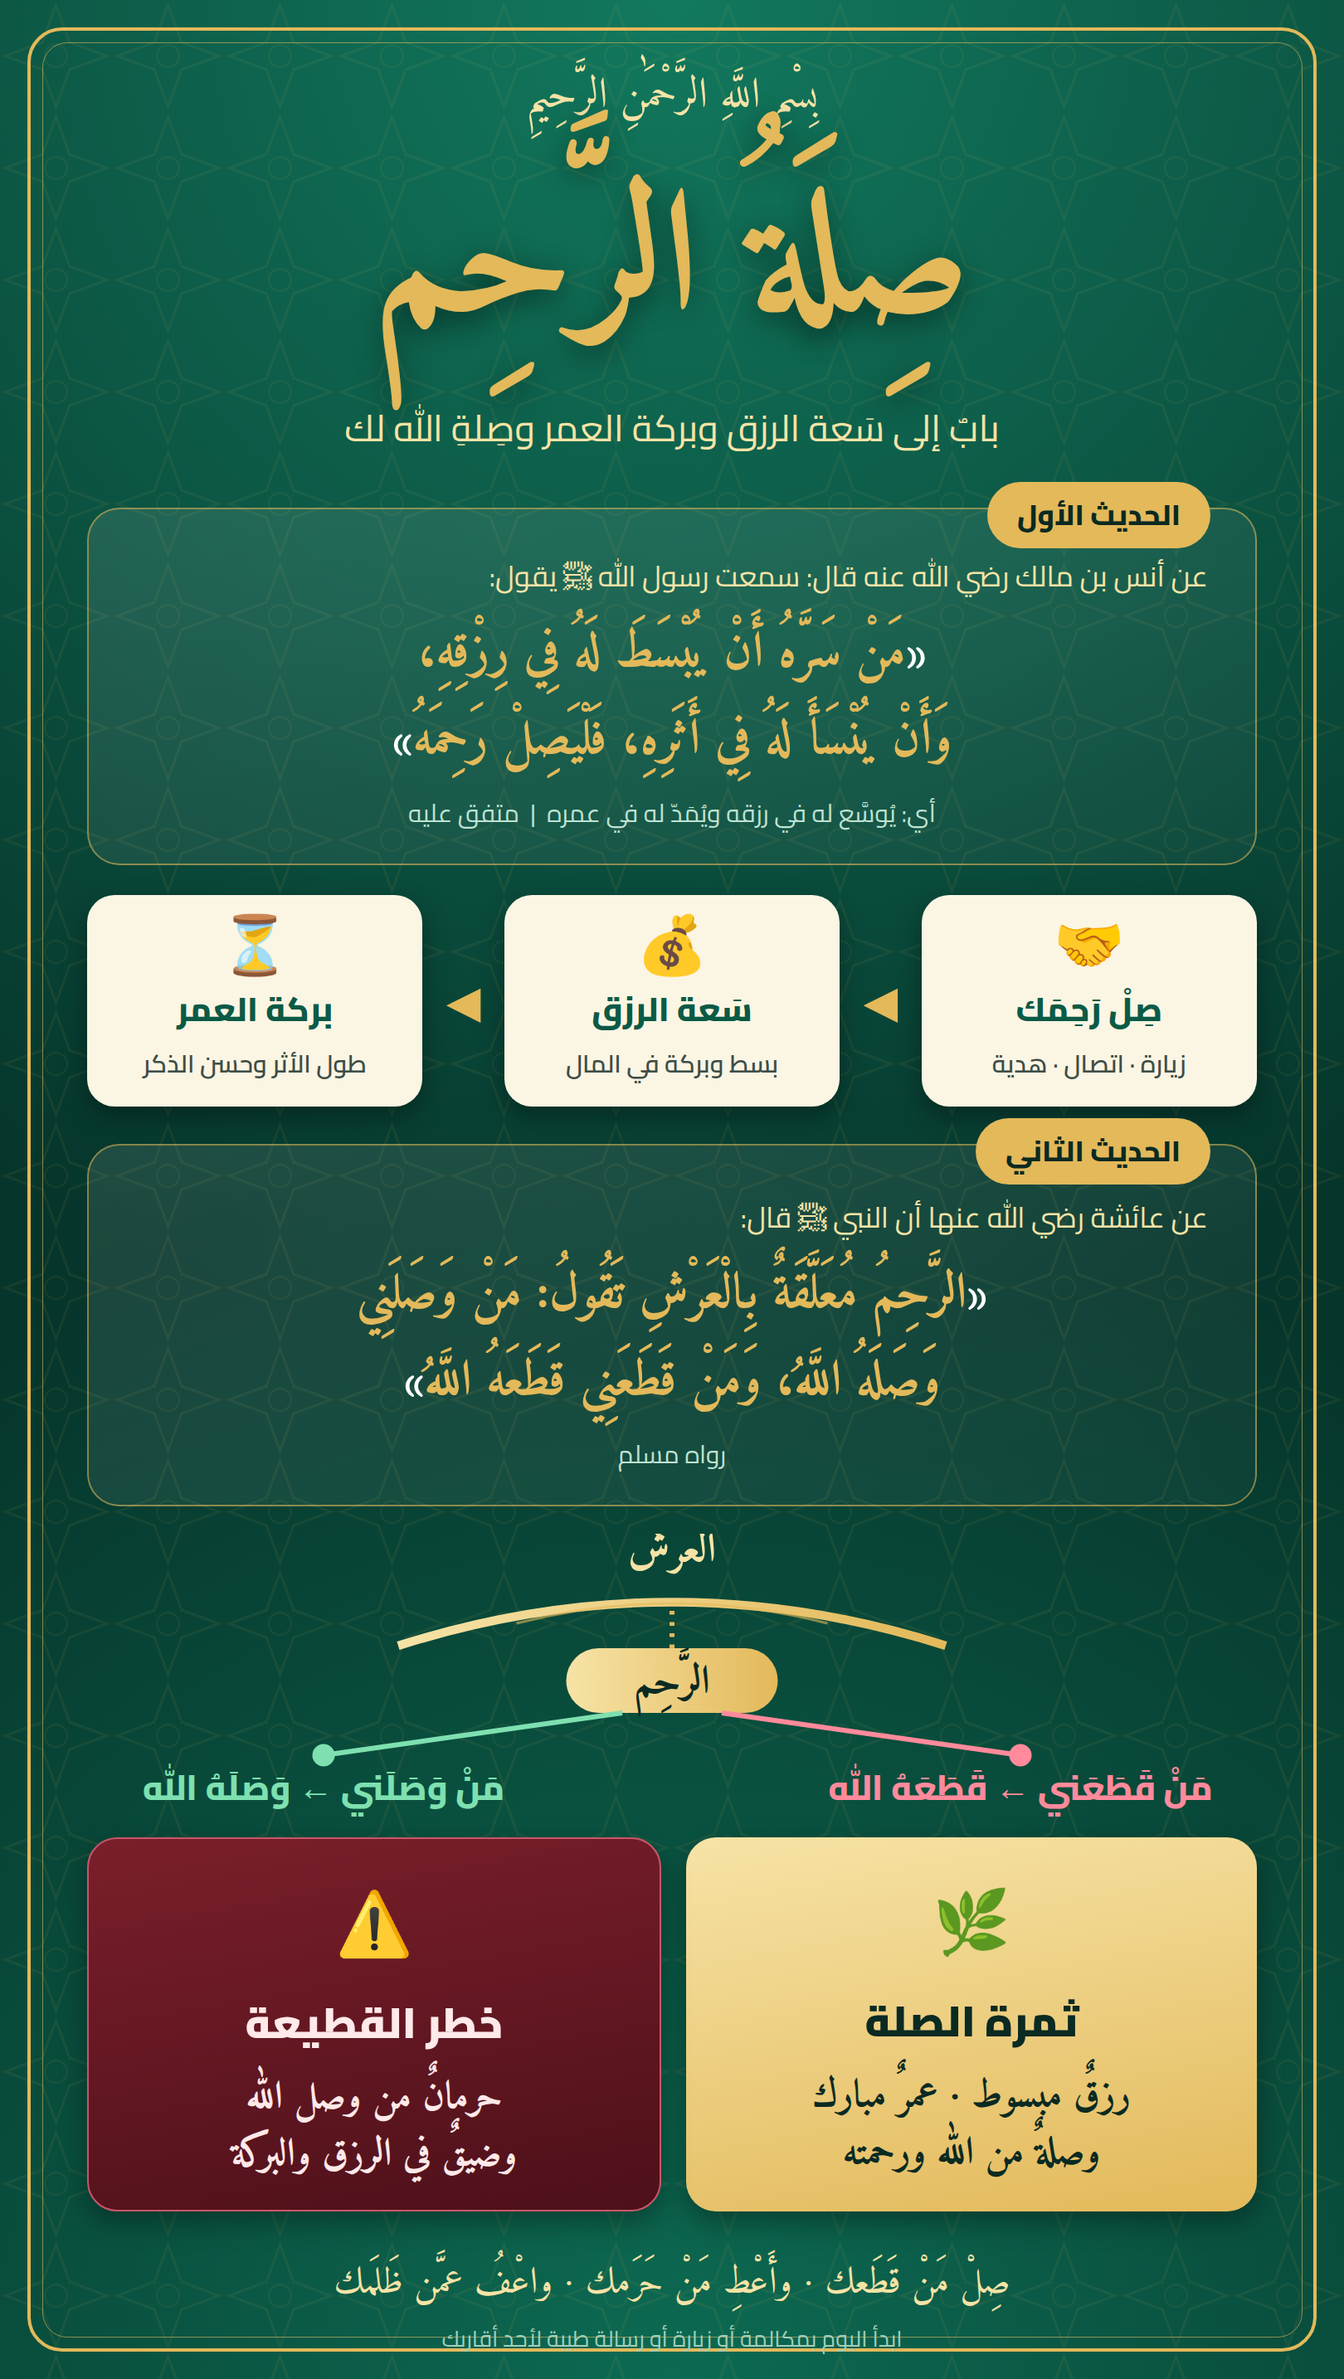
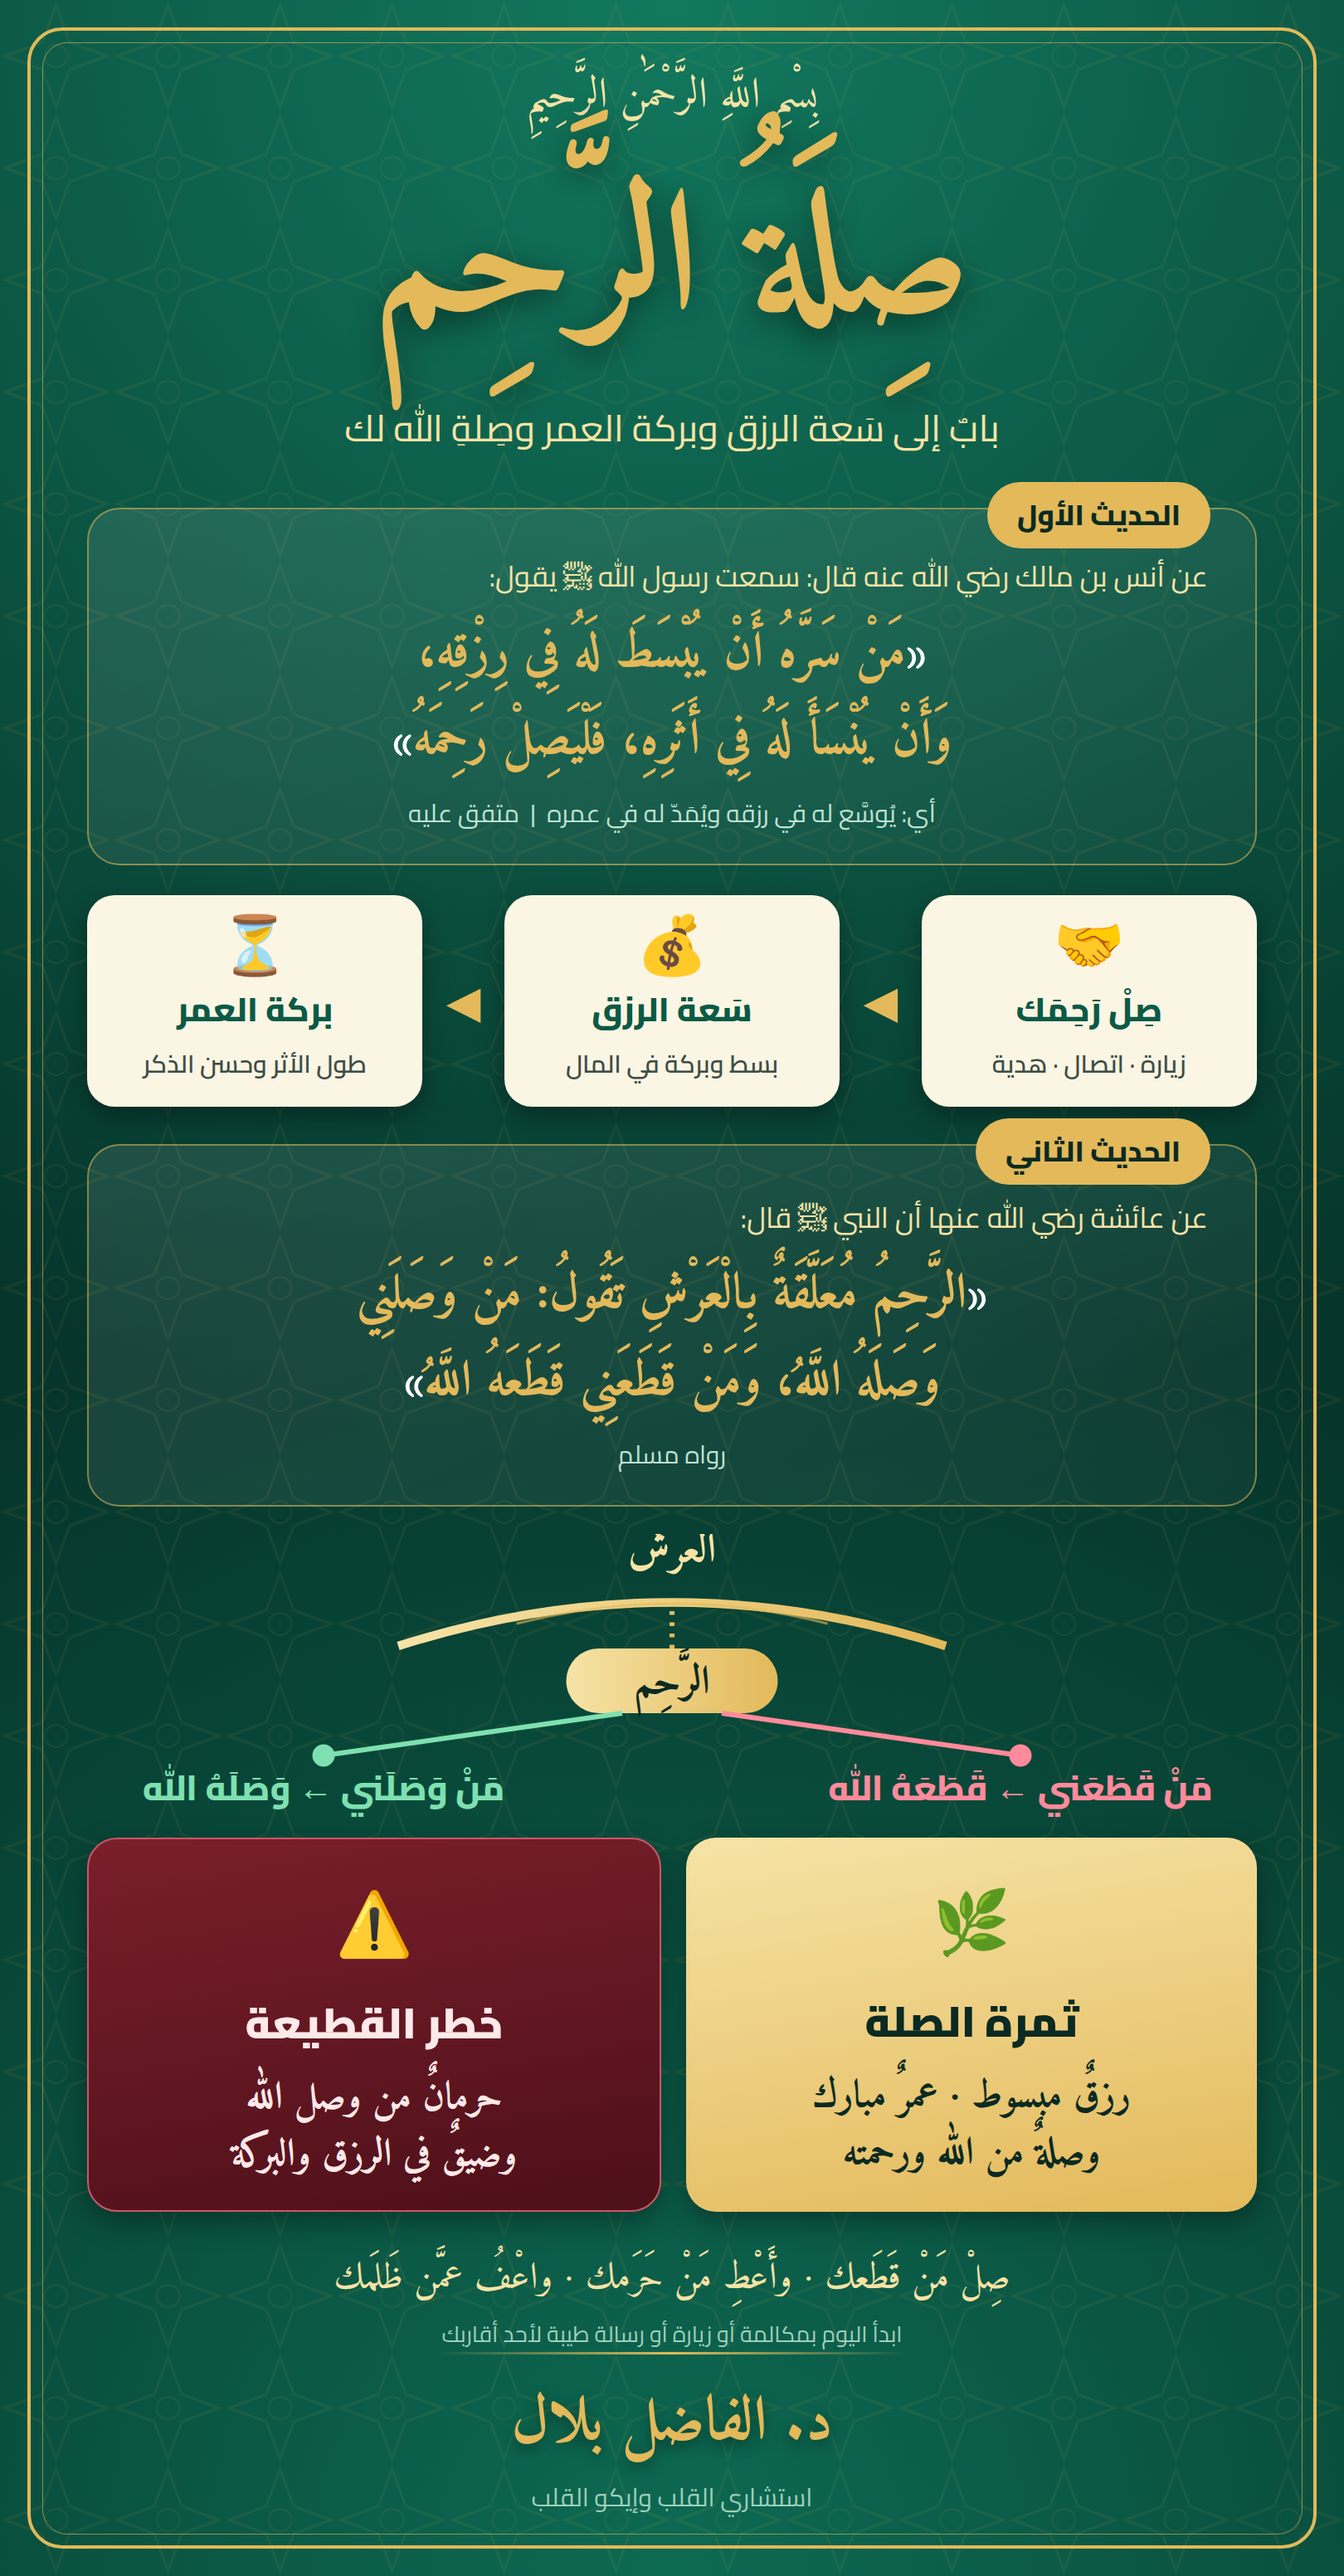
Add author name to poster
Claude-Session: https://claude.ai/code/session_015fW2r9zma2MHx7fqVSuuPY

diff --git a/poster/poster.html b/poster/poster.html
@@ -9,7 +9,7 @@
 @font-face{font-family:Cairo;src:url(Cairo.ttf);font-weight:200 900}
 :root{--g1:#06352b;--g2:#0b5a46;--gold:#e3b95a;--gold2:#f6e3a6;--cream:#fbf5e3;--ink:#0a2a22}
 *{box-sizing:border-box;margin:0;padding:0}
-body{width:1080px;height:1912px;font-family:Cairo,sans-serif;background:var(--g1);position:relative;overflow:hidden;color:var(--cream)}
+body{width:1080px;height:2070px;font-family:Cairo,sans-serif;background:var(--g1);position:relative;overflow:hidden;color:var(--cream)}
 .bg{position:absolute;inset:0;background:
  radial-gradient(circle at 50% 0%,#12795e 0,transparent 55%),
  radial-gradient(circle at 50% 100%,#0d6a52 0,transparent 50%),var(--g1)}
@@ -40,17 +40,21 @@ h1{font-family:Amiri;font-weight:700;font-size:138px;line-height:1.1;color:var(-
 .col h3{font-size:34px;font-weight:900;margin:2px 0 6px}
 .col p{font-family:Amiri;font-weight:700;font-size:31px;line-height:1.5}
 .col .ic{font-size:50px}
-.foot{margin-top:34px;padding-bottom:30px;font-family:Amiri;font-size:30px;color:var(--gold2);text-align:center;line-height:1.6}
+.foot{margin-top:30px;padding-bottom:0;font-family:Amiri;font-size:30px;color:var(--gold2);text-align:center;line-height:1.6}
 .foot small{display:block;font-family:Cairo;font-size:18px;color:#9fcfbd;margin-top:6px}
+.name{margin-top:auto;padding-bottom:34px;text-align:center}
+.name .ln{width:380px;height:2px;margin:0 auto 12px;background:linear-gradient(90deg,transparent,var(--gold),transparent)}
+.name b{font-family:Amiri;font-weight:700;font-size:50px;color:var(--gold);text-shadow:0 3px 12px rgba(0,0,0,.4)}
+.name span{display:block;font-size:20px;color:#9fcfbd;margin-top:-4px}
 </style>
 </head>
 <body>
 <div class="bg"></div>
-<svg class="pattern" width="1080" height="1912"><defs>
+<svg class="pattern" width="1080" height="2070"><defs>
 <pattern id="p" width="90" height="90" patternUnits="userSpaceOnUse">
 <path d="M45 4 L56 34 L86 45 L56 56 L45 86 L34 56 L4 45 L34 34Z" fill="none" stroke="#e3b95a" stroke-width="2"/>
 <circle cx="45" cy="45" r="9" fill="none" stroke="#e3b95a" stroke-width="1.5"/></pattern></defs>
-<rect width="1080" height="1912" fill="url(#p)"/></svg>
+<rect width="1080" height="2070" fill="url(#p)"/></svg>
 <div class="frame"></div>
 
 <div class="wrap">
@@ -104,6 +108,7 @@ h1{font-family:Amiri;font-weight:700;font-size:138px;line-height:1.1;color:var(-
 
  <div class="foot">صِلْ مَنْ قَطَعك · وأَعْطِ مَنْ حَرَمك · واعْفُ عمَّن ظَلَمك
   <small>ابدأ اليوم بمكالمة أو زيارة أو رسالة طيبة لأحد أقاربك</small></div>
+ <div class="name"><div class="ln"></div><b>د. الفاضل بلال</b><span>استشاري القلب وإيكو القلب</span></div>
 </div>
 </body>
 </html>
